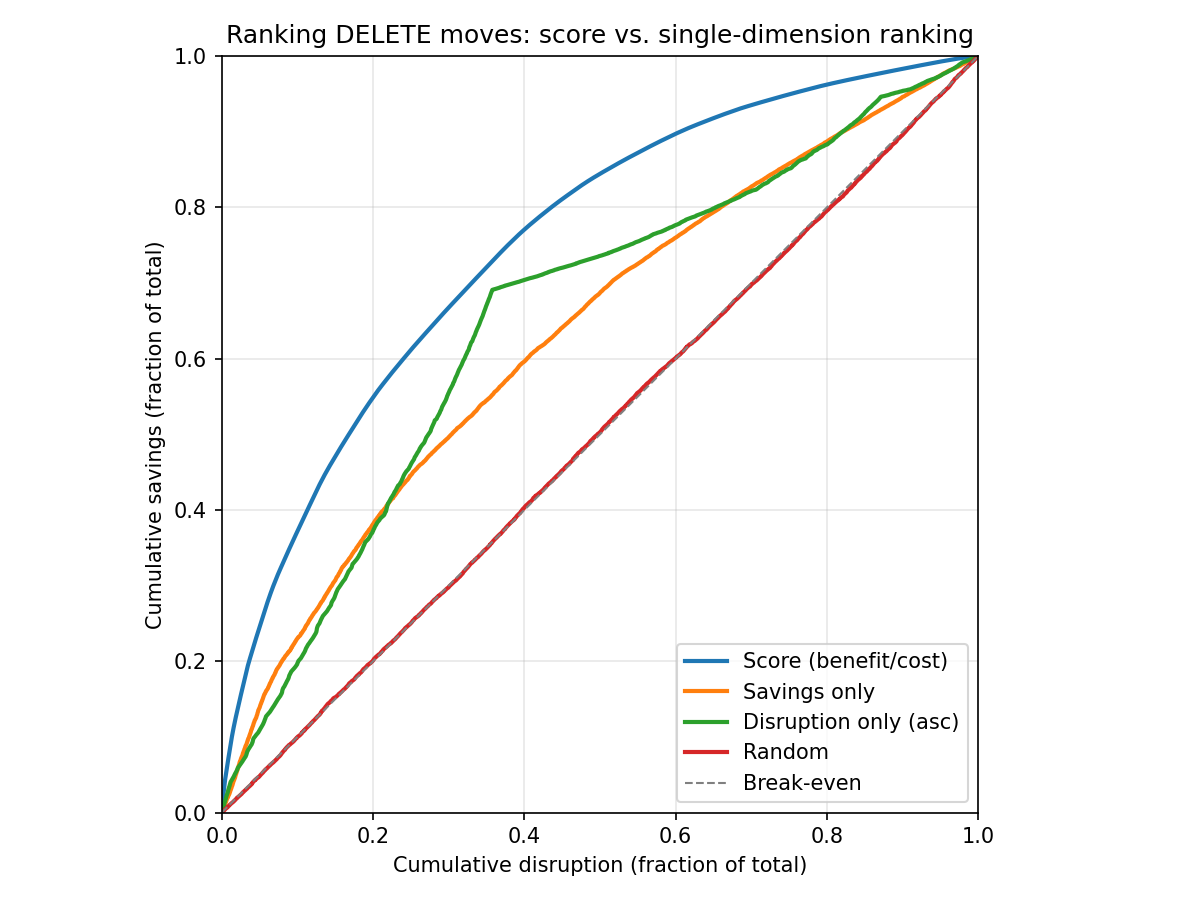
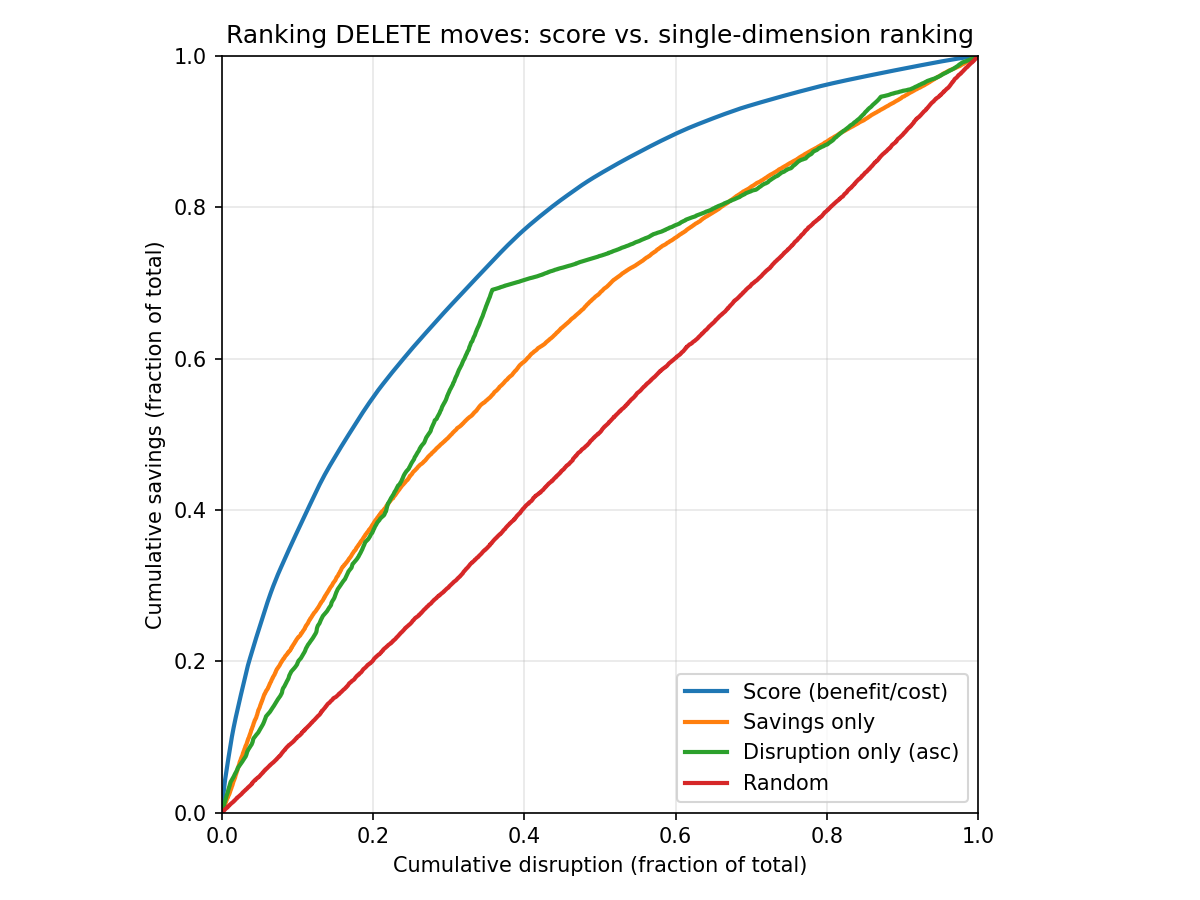
docs(rfc): remove break-even terminology, update scheduler gap FAQ
- Replace all "break-even" references with "threshold" or plain language
- Remove diagonal line from ranking charts (redundant with random line)
- Expand scheduler-gap FAQ with Shreyas's worked example, reference to
  Workload-Aware Scheduling proposal, and MostAllocated recommendation
- Regenerate charts with random pod shapes for better savings diversity

Changed region(s): [[0.555, 0.7156, 0.8017, 0.9022]]

diff --git a/designs/scripts/ranking-strategies.py b/designs/scripts/ranking-strategies.py
@@ -348,8 +348,6 @@ def plot_ranking(moves, title, output_path):
             cum_savings = cum_savings / cum_savings[-1]
         ax.plot(cum_disruption, cum_savings, label=label, linewidth=2)
 
-    ax.plot([0, 1], [0, 1], "--", color="gray", linewidth=1, label="Break-even")
-
     ax.set_xlabel("Cumulative disruption (fraction of total)")
     ax.set_ylabel("Cumulative savings (fraction of total)")
     ax.set_title(title)

diff --git a/designs/consolidation-cost-threshold.md b/designs/consolidation-cost-threshold.md
@@ -45,7 +45,7 @@ Both savings and disruption are expressed as fractions of their NodePool totals 
 
 Consider a move that saves $4.84/day by draining an m7i.xlarge and disrupts 4 pods. Is this a good move? First, we need to decide locally whether the move is worth doing at all in isolation. Then, if it passes, we need to decide whether the move is worth doing *now* given PodDisruptionBudgets, NodePool disruption budgets, and the NodePool's `consolidateAfter` delay. The score answers the first question.
 
-On a NodePool costing $48.40/day with 40 pods, you save 10% of cost for 10% of disruption. On a NodePool costing $4,840/day with 4000 pods, you save 0.1% of cost for 0.1% of disruption. Both score 1.0 despite very different absolute numbers. But saving 0.1% of cost for 10% of disruption scores 0.01 and fails the break-even threshold by 100x.
+On a NodePool costing $48.40/day with 40 pods, you save 10% of cost for 10% of disruption. On a NodePool costing $4,840/day with 4000 pods, you save 0.1% of cost for 0.1% of disruption. Both score 1.0 despite very different absolute numbers. But saving 0.1% of cost for 10% of disruption scores 0.01 and fails the threshold by 100x.
 
 For cross-NodePool consolidation, the source NodePool's total dollar cost, total disruption cost, and consolidation policy govern the decision to accept or reject the move. Cross-pool moves may be DELETEs (source node removed, pods land on existing capacity in another pool) or REPLACEs (source node removed, replacement node created in the source pool). In either case, the dollar cost savings comes from the difference between the source nodes (priced by the source NodePool) and any replacement nodes (priced by their respective NodePools).
 
@@ -61,7 +61,7 @@ disruption_fraction = disruption_cost / nodepool_total_disruption_cost
 score = savings_fraction / disruption_fraction
 ```
 
-A move is approved when `score >= 1.0`. A score of 1.0 is break-even: savings fraction equals disruption fraction. Higher scores indicate better value per unit of disruption. When comparing moves, the log2 scale gives scores symmetric dynamic range: +1 means the move saves 2x more cost fraction than disruption fraction, -1 means 2x worse.
+A move is approved when `score >= 1.0`, meaning the savings fraction is at least as large as the disruption fraction. Higher scores indicate better value per unit of disruption. When comparing moves, the log2 scale gives scores symmetric dynamic range: +1 means the move saves 2x more cost fraction than disruption fraction, -1 means 2x worse.
 
 **Division-by-zero handling.** If `disruption_cost` is zero (no pods, or all pods have zero disruption cost), then `disruption_fraction` is zero. DELETE operations with zero disruption cost are approved if savings are non-negative, similar to what `WhenEmpty` does for empty nodes. REPLACE operations with zero disruption cost are approved if savings are positive. If `nodepool_total_disruption_cost` is zero, any move with positive savings is approved, matching `WhenEmptyOrUnderutilized`. If `nodepool_total_cost` is zero, `savings_fraction` is undefined and no consolidation happens. See [Edge Cases](#edge-cases) for worked examples.
 
@@ -73,7 +73,7 @@ When multiple moves pass the threshold and a disruption budget limits how many c
 
 ![Ranking DELETE moves: score vs. single-dimension ranking](ranking-strategies-delete.png)
 
-The graphs above show REPLACE and DELETE moves generated from a simulated cluster. The simulation builds a cluster by placing 5000 pods with log-normal resource requests onto c7i, m7i, and r7i instance types via first-fit-decreasing bin-packing, then runs 10 rounds of workload churn (killing 0-80% of each node's pods and adding new pods with different shapes). REPLACE moves reprovision each node's remaining pods on the cheapest fitting instance type. DELETE moves scatter a node's pods onto existing spare capacity. Each curve shows cumulative savings (y-axis) as a function of cumulative disruption (x-axis) under a different ranking strategy. The diagonal is break-even. Ranking by score dominates: at every disruption level, it delivers more savings than ranking by savings alone, disruption alone, or randomly. The script to reproduce these charts is in [`designs/scripts/ranking-strategies.py`](scripts/ranking-strategies.py).
+The graphs above show REPLACE and DELETE moves generated from a simulated cluster. The simulation builds a cluster by placing 5000 pods with log-normal resource requests onto c7i, m7i, and r7i instance types via first-fit-decreasing bin-packing, then runs 10 rounds of workload churn (killing 0-80% of each node's pods and adding new pods with different shapes). REPLACE moves reprovision each node's remaining pods on the cheapest fitting instance type. DELETE moves scatter a node's pods onto existing spare capacity. Each curve shows cumulative savings (y-axis) as a function of cumulative disruption (x-axis) under a different ranking strategy. Ranking by score dominates: at every disruption level, it delivers more savings than ranking by savings alone, disruption alone, or randomly. The script to reproduce these charts is in [`designs/scripts/ranking-strategies.py`](scripts/ranking-strategies.py).
 
 #### Calculating Per-Pod Disruption Cost
 
@@ -145,7 +145,7 @@ disruption_fraction = 3 / 800      = 0.375%
 score             = 0.0125 / 0.00375 = 3.33
 ```
 
-The break-even threshold produces the same decision regardless of NodePool size.
+The threshold produces the same decision regardless of NodePool size.
 
 #### Disruption Cost Invariance
 
@@ -188,10 +188,10 @@ If the Spot pool node instead runs 8 pods with disruption cost 8:
 ```
 savings_fraction  = 1.45 / 14.50  = 10.0%
 disruption_fraction = 8 / 80      = 10.0%
-score             = 0.10 / 0.10   =  1.0   = 1.0  --> approved (at break-even)
+score             = 0.10 / 0.10   =  1.0   = 1.0  --> approved (at threshold)
 ```
 
-The move barely passes. Increasing disruption cost on any pod would push it below break-even.
+The move barely passes. Increasing disruption cost on any pod would push it below the threshold.
 
 ### Edge Cases
 
@@ -229,17 +229,17 @@ Scoring determines which moves are *worth doing*. All existing feasibility check
 
 ## API Choices
 
-### Consolidation Aggressiveness Tuning [Recommended: Fixed Break-Even at Launch]
+### Consolidation Aggressiveness Tuning [Recommended: Fixed Threshold at Launch]
 
-This proposal ships a fixed break-even threshold (score >= 1.0) with no operator-facing aggressiveness knob. The behavior is equivalent to a slider value of 50 in the alternatives below, so any extension is non-breaking.
+This proposal ships a fixed threshold (score >= 1.0) with no operator-facing aggressiveness knob. The behavior is equivalent to a slider value of 50 in the alternatives below, so any extension is non-breaking.
 
-The break-even threshold has a clear meaning: don't disrupt a larger share of the NodePool than the share of cost you save. Users who need different aggressiveness across workloads can use `controller.kubernetes.io/pod-deletion-cost` and pod priority. This keeps the cost-disruption tradeoff with application developers, who know which pods are expensive to restart, rather than cluster operators, who often do not.
+The threshold has a clear meaning: don't disrupt a larger share of the NodePool than the share of cost you save. Users who need different aggressiveness across workloads can use `controller.kubernetes.io/pod-deletion-cost` and pod priority. This keeps the cost-disruption tradeoff with application developers, who know which pods are expensive to restart, rather than cluster operators, who often do not.
 
 Two alternatives were considered for operator-level aggressiveness control:
 
-**Low/Medium/High (three-state).** A `consolidationAggressiveness` field with three values: Low (conservative, equivalent threshold ~3.16), Medium (break-even, threshold 1.0), High (aggressive, equivalent threshold ~0.32). Each step is a 10x change in required savings-per-disruption. This avoids the "what number do I pick?" problem of a continuous range. Not preferred at launch, but this is the most likely extension if users demonstrate a need for NodePool-level tuning beyond per-pod annotations.
+**Low/Medium/High (three-state).** A `consolidationAggressiveness` field with three values: Low (conservative, equivalent threshold ~3.16), Medium (default, threshold 1.0), High (aggressive, equivalent threshold ~0.32). Each step is a 10x change in required savings-per-disruption. This avoids the "what number do I pick?" problem of a continuous range. Not preferred at launch, but this is the most likely extension if users demonstrate a need for NodePool-level tuning beyond per-pod annotations.
 
-**Continuous slider (0-100).** A `consolidationThreshold` field (0-100) mapping to a log-scale threshold via `10^((x-50)/25)`, where 0 means consolidate aggressively (threshold 0.01), 50 is break-even (threshold 1.0), and 100 means consolidate only for extreme savings (threshold 100). Each 25-point increment is a 10x change. 0-100 is a wide range with no guidance on what value to pick. This is the most extreme alternative considered.
+**Continuous slider (0-100).** A `consolidationThreshold` field (0-100) mapping to a log-scale threshold via `10^((x-50)/25)`, where 0 means consolidate aggressively (threshold 0.01), 50 is the default (threshold 1.0), and 100 means consolidate only for extreme savings (threshold 100). Each 25-point increment is a 10x change. 0-100 is a wide range with no guidance on what value to pick. This is the most extreme alternative considered.
 
 Pros: Zero configuration. Clear meaning. Shifts tuning to per-pod annotations where domain knowledge lives. Both alternatives can be added later as non-breaking extensions.
 
@@ -301,7 +301,7 @@ A dedicated `karpenter.sh/disruption-cost` annotation separate from the existing
 
 ### Configurable Aggressiveness
 
-If operators demonstrate a need for per-NodePool aggressiveness tuning beyond what per-pod annotations provide, a Low/Medium/High `consolidationAggressiveness` field is the most likely extension. A continuous 0-100 slider is possible but less likely. The fixed break-even threshold is equivalent to Medium (or slider value 50), so either extension is non-breaking. See [API Choices](#consolidation-aggressiveness-tuning-recommended-fixed-break-even-at-launch) for details.
+If operators demonstrate a need for per-NodePool aggressiveness tuning beyond what per-pod annotations provide, a Low/Medium/High `consolidationAggressiveness` field is the most likely extension. A continuous 0-100 slider is possible but less likely. The fixed threshold is equivalent to Medium (or slider value 50), so either extension is non-breaking. See [API Choices](#consolidation-aggressiveness-tuning-recommended-fixed-threshold-at-launch) for details.
 
 ### Move Prioritization
 
@@ -331,9 +331,11 @@ This dual criterion eliminates the need for iterative re-evaluation (accept best
 
 ### Does the score account for kube-scheduler pod placement?
 
-No. The score evaluates the consolidation move as proposed: source nodes are deleted, replacement nodes (if any) are created, and moved pods are assumed to land on the intended destination. In practice, kube-scheduler may place pods on different nodes than Karpenter expects. If pods scatter across existing nodes instead of packing onto the replacement, the replacement may be underutilized, triggering another consolidation cycle.
+No. The score evaluates the consolidation move as proposed: source nodes are deleted, replacement nodes (if any) are created, and moved pods are assumed to land on the intended destination. In practice, kube-scheduler may place pods on different nodes than Karpenter expects. If pods scatter across existing nodes instead of packing onto the replacement, the replacement may be underutilized, triggering another consolidation cycle. This is a real scenario: Karpenter provisions node K to consolidate nodes B and C, but kube-scheduler distributes B's and C's pods across existing nodes D through J instead of packing them onto K. K ends up nearly empty and becomes a consolidation candidate itself.
 
-This is an existing limitation of Karpenter's consolidation, not introduced by scoring. `WhenEmptyOrUnderutilized` has the same gap. The cost threshold reduces the frequency of this problem by rejecting marginal moves that are most likely to produce churn, but it does not eliminate it. Closing the gap between Karpenter's placement assumptions and kube-scheduler's actual decisions is complementary work.
+This is an existing limitation of Karpenter's consolidation, not introduced by scoring. `WhenEmptyOrUnderutilized` has the same gap. The cost threshold reduces the frequency by rejecting marginal moves that are most likely to produce churn, but it does not eliminate it.
+
+The root cause is that Karpenter's provisioner and consolidation controller simulate scheduling internally, but kube-scheduler makes the actual placement decision independently. Both controllers estimate what the scheduler will do, and those estimates can diverge from reality. The [Workload-Aware Scheduling proposal](https://docs.google.com/document/d/1mPYqS4cFmsHPaVQDKyCz7-TKyWNJGjTaZQD3Umkvmgk) (Kepka, Feb 2026) identifies this as a fundamental problem in the Kubernetes scheduling architecture. Today, the best mitigation is configuring kube-scheduler with a `MostAllocated` scoring strategy, which biases placement toward already-utilized nodes and reduces the divergence between Karpenter's assumptions and actual placement. Future work on a shared constraint-passing interface between the scheduler and provisioner will address this more directly.
 
 ### What disruption budgets does scoring respect?
 
@@ -373,7 +375,7 @@ Each scored move is logged at DEBUG level with the score, savings fraction, disr
 
 ### Phase 2: Beta (feature gate, enabled by default)
 
-After community feedback confirms the break-even threshold works across diverse workloads, the feature gate defaults to enabled. Operators who encounter issues can disable it.
+After community feedback confirms the threshold works across diverse workloads, the feature gate defaults to enabled. Operators who encounter issues can disable it.
 
 ### Phase 3: GA (feature gate removed)
 
